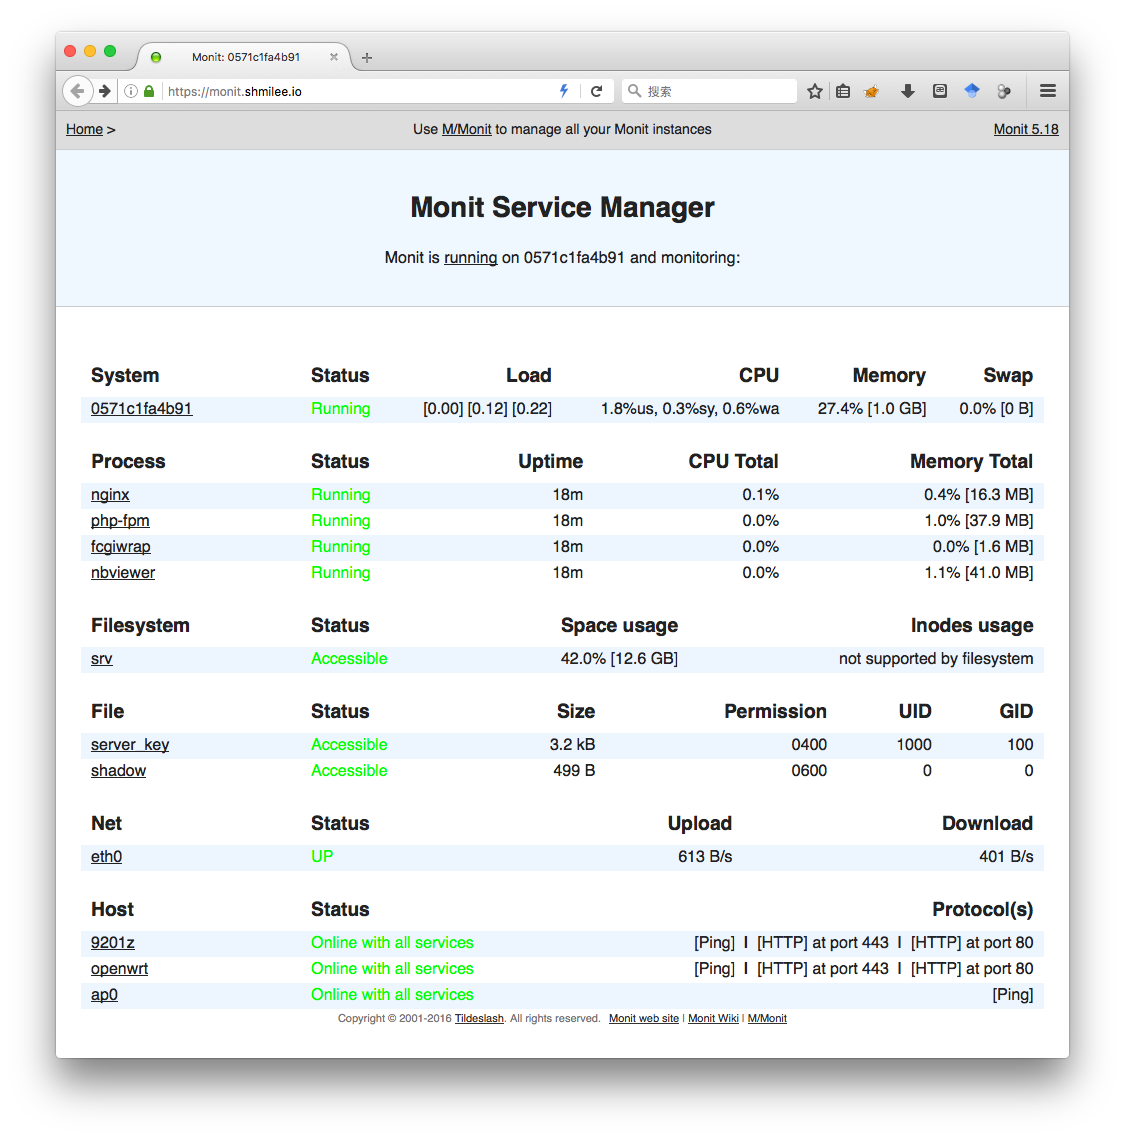
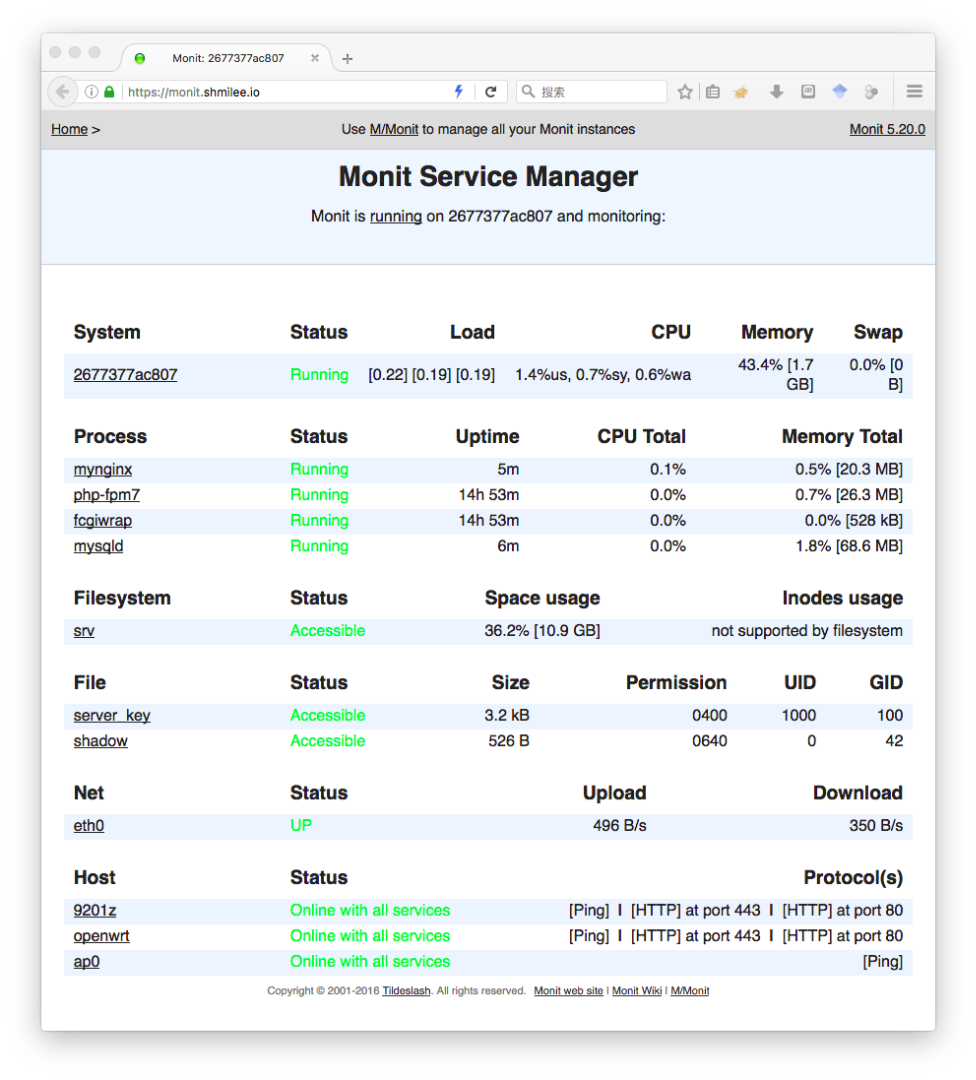
update readme for alpine lnmp

diff --git a/readme.md b/readme.md
@@ -17,120 +17,175 @@ Monit's web interface:
 
 ```shell
 $ docker exec -t lnmp_server ps aux
-USER       PID %CPU %MEM    VSZ   RSS TTY      STAT START   TIME COMMAND
-root         1  0.0  0.0   4188   640 ?        Ss   Jul02   0:01 /usr/bin/tini -
-root         6  0.1  0.1 104960  6496 ?        Sl   Jul02   0:57 /usr/bin/monit 
-root        15  0.0  0.0  47912  1332 ?        Ss   Jul02   0:00 nginx: master p
-http        16  0.0  0.2  50500  9500 ?        S    Jul02   0:30 nginx: worker p
-http        17  0.0  0.3  55960 14956 ?        S    Jul02   0:32 nginx: worker p
-root        19  0.0  0.2 240860 11324 ?        Ss   Jul02   0:01 php-fpm: master
-http        20  0.0  0.3 241052 15840 ?        S    Jul02   0:00 php-fpm: pool w
-http        21  0.0  0.3 241052 15840 ?        S    Jul02   0:00 php-fpm: pool w
-http        23  0.0  0.0  30108  2408 ?        Ss   Jul02   0:00 /bin/fcgiwrap
-nbviewer    25  0.0  1.0 168136 42396 ?        S    Jul02   0:14 python -m nbvie
-root       151  0.0  0.0  36360  3236 ?        Rs+  14:25   0:00 ps aux
+PID   USER     TIME   COMMAND
+    1 root       0:01 /sbin/tini -- monit_init.sh 5
+    7 root       0:17 /usr/bin/monit -c /srv/etc/monitrc
+   23 root       0:01 {php-fpm7} php-fpm: master process (/srv/etc/php-fpm7.con
+   24 nobody     0:00 {php-fpm7} php-fpm: pool www
+   25 nobody     0:00 {php-fpm7} php-fpm: pool www
+   27 mynginx    0:00 /usr/bin/fcgiwrap
+  331 mysql      0:01 /usr/bin/mysqld --basedir=/usr --datadir=/var/lib/mysql -
+  365 root       0:00 {mynginx} nginx: master process /usr/bin/mynginx -c /srv/
+  366 mynginx    0:01 {mynginx} nginx: worker process
+  367 mynginx    0:00 {mynginx} nginx: worker process
+  368 mynginx    0:00 {mynginx} nginx: cache manager process
+  459 root       0:00 bash
+  519 root       0:00 ps aux
 
 $ docker exec -t lnmp_server pstree -p                                          :) 0
-tini(1)─┬─fcgiwrap(23)
-        ├─monit(6)───{monit}(135)
-        ├─nginx(15)─┬─nginx(16)
-        │           └─nginx(17)
-        ├─php-fpm(19)─┬─php-fpm(20)
-        │             └─php-fpm(21)
-        └─python(25)
+tini(1)-+-fcgiwrap(27)
+        |-monit(7)
+        |-mynginx(365)-+-mynginx(366)
+        |              |-mynginx(367)
+        |              `-mynginx(368)
+        |-mysqld(331)
+        `-php-fpm7(23)-+-php-fpm7(24)
+                       `-php-fpm7(25)
 
 $ docker exec -t lnmp_server monit -c /srv/etc/monitrc summary                  :) 0
-Monit uptime: 16h 0m
- Service Name                     Status                      Type          
- d64b2b871998                     Running                     System        
- nginx                            Running                     Process       
- php-fpm                          Running                     Process       
- fcgiwrap                         Running                     Process       
- nbviewer                         Running                     Process       
- server_key                       Accessible                  File          
- shadow                           Accessible                  File          
- srv                              Accessible                  Filesystem    
- 9201z                            Online with all services    Remote Host   
- openwrt                          Online with all services    Remote Host   
- ap0                              Online with all services    Remote Host   
- eth0                             UP                          Network       
+Monit 5.20.0 uptime: 15h 20m
+┌─────────────────────────────────┬────────────────────────────┬───────────────┐
+│ Service Name                    │ Status                     │ Type          │
+├─────────────────────────────────┼────────────────────────────┼───────────────┤
+│ 2677377ac807                    │ Running                    │ System        │
+├─────────────────────────────────┼────────────────────────────┼───────────────┤
+│ mynginx                         │ Running                    │ Process       │
+├─────────────────────────────────┼────────────────────────────┼───────────────┤
+│ php-fpm7                        │ Running                    │ Process       │
+├─────────────────────────────────┼────────────────────────────┼───────────────┤
+│ fcgiwrap                        │ Running                    │ Process       │
+├─────────────────────────────────┼────────────────────────────┼───────────────┤
+│ mysqld                          │ Running                    │ Process       │
+├─────────────────────────────────┼────────────────────────────┼───────────────┤
+│ server_key                      │ Accessible                 │ File          │
+├─────────────────────────────────┼────────────────────────────┼───────────────┤
+│ shadow                          │ Accessible                 │ File          │
+├─────────────────────────────────┼────────────────────────────┼───────────────┤
+│ srv                             │ Accessible                 │ Filesystem    │
+├─────────────────────────────────┼────────────────────────────┼───────────────┤
+│ 9201z                           │ Online with all services   │ Remote Host   │
+├─────────────────────────────────┼────────────────────────────┼───────────────┤
+│ openwrt                         │ Online with all services   │ Remote Host   │
+├─────────────────────────────────┼────────────────────────────┼───────────────┤
+│ ap0                             │ Online with all services   │ Remote Host   │
+├─────────────────────────────────┼────────────────────────────┼───────────────┤
+│ eth0                            │ UP                         │ Network       │
+└─────────────────────────────────┴────────────────────────────┴───────────────┘
 ```
 
-NGINX PKGBUILD
-==============
+MyNGINX APKBUILD
+================
 
-In Arch Linux, build package:
+In Alpine Docker image `shmilee/abuild:3.5`,
+[build package](./dockerfiles/readme.md#build-packages):
 
-```shell
-cd ./mynginx/
-yaourt -S libmaxminddb sregex-git
-makepkg -s
-```
 The packages:
 
 ```
-mynginx/1.10.2-5:mynginx-1.10.2-5-i686.pkg.tar.xz
-mynginx/1.10.2-5:mynginx-1.10.2-5-x86_64.pkg.tar.xz
-mynginx/1.10.2-5:mynginx-pagespeed-1.10.2_1.11.33.2-5-i686.pkg.tar.xz
-mynginx/1.10.2-5:mynginx-pagespeed-1.10.2_1.11.33.2-5-x86_64.pkg.tar.xz
-mynginx/1.10.2-5:mynginx-passenger-1.10.2_5.0.30-5-i686.pkg.tar.xz
-mynginx/1.10.2-5:mynginx-passenger-1.10.2_5.0.30-5-x86_64.pkg.tar.xz
+mynginx-1.10.2-r0
+mynginx-doc-1.10.2-r0
+mynginx-meta-buildin-modules-1.10.2-r0
+mynginx-meta-github-modules-1.10.2-r0
+mynginx-meta-small-modules-1.10.2-r0
+mynginx-mod-accounting-1.10.2_3c13f62-r0
+mynginx-mod-array-var-1.10.2_0.05-r0
+mynginx-mod-auth-pam-1.10.2_1.5.1-r0
+mynginx-mod-auth-spnego-1.10.2_48c6e2e-r0
+mynginx-mod-cache-purge-1.10.2_2.3-r0
+mynginx-mod-concat-1.10.2_b8d3e7e-r0
+mynginx-mod-devel-kit-1.10.2_0.3.0-r0
+mynginx-mod-dynamic-upstream-1.10.2_0.1.6-r0
+mynginx-mod-echo-1.10.2_0.60-r0
+mynginx-mod-encrypted-session-1.10.2_0.06-r0
+mynginx-mod-enhanced-memcached-1.10.2_80518ef-r0
+mynginx-mod-eval-1.10.2_2016.06.10-r0
+mynginx-mod-fancyindex-1.10.2_0.4.1-r0
+mynginx-mod-form-input-1.10.2_0.12-r0
+mynginx-mod-geoip-1.10.2-r0
+mynginx-mod-geoip2-1.10.2_1.1-r0
+mynginx-mod-google-filter-1.10.2_0.2.0-r0
+mynginx-mod-headers-more-filter-1.10.2_0.31-r0
+mynginx-mod-http-upsync-1.10.2_6a840dd-r0
+mynginx-mod-iconv-1.10.2_0.14-r0
+mynginx-mod-image-filter-1.10.2-r0
+mynginx-mod-lua-1.10.2_0.10.6-r0
+mynginx-mod-lua-upstream-1.10.2_0.06-r0
+mynginx-mod-mail-1.10.2-r0
+mynginx-mod-memc-1.10.2_0.17-r0
+mynginx-mod-naxsi-1.10.2_0.55.1-r0
+mynginx-mod-nchan-1.10.2_1.0.4-r0
+mynginx-mod-passenger-1.10.2_5.1.1-r0
+mynginx-mod-perl-1.10.2-r0
+mynginx-mod-push-stream-1.10.2_0.5.2-r0
+mynginx-mod-rdns-1.10.2_a32deec-r0
+mynginx-mod-redis2-1.10.2_0.13-r0
+mynginx-mod-replace-filter-1.10.2_2c7f065-r0
+mynginx-mod-rtmp-1.10.2_c3237ae-r0
+mynginx-mod-rtmpt-proxy-1.10.2_62130c9-r0
+mynginx-mod-set-misc-1.10.2_0.31-r0
+mynginx-mod-shibboleth-1.10.2_2.0.0-r0
+mynginx-mod-small-light-1.10.2_0.9.0-r0
+mynginx-mod-sorted-querystring-1.10.2_0.3-r0
+mynginx-mod-srcache-filter-1.10.2_0.31-r0
+mynginx-mod-stream-1.10.2-r0
+mynginx-mod-stream-upsync-1.10.2_f2515a2-r0
+mynginx-mod-subs-filter-1.10.2_bc58cb1-r0
+mynginx-mod-testcookie-access-1.10.2_b20b5fd-r0
+mynginx-mod-uploadprogress-1.10.2_afb2d31-r0
+mynginx-mod-upstream-fair-1.10.2_a18b409-r0
+mynginx-mod-vhost-traffic-status-1.10.2_64e0055-r0
+mynginx-mod-xslt-filter-1.10.2-r0
+mynginx-vim-1.10.2-r0
 ```
 
 The nginx dynamic modules:
 
 ```shell
-$ ls /usr/lib/nginx/modules                                                           :) 0
-ndk_http_module.so                      ngx_http_push_stream_module.so
-ngx_dynamic_upstream_module.so          ngx_http_rdns_module.so
-ngx_http_accounting_module.so           ngx_http_redis2_module.so
-ngx_http_array_var_module.so            ngx_http_replace_filter_module.so
-ngx_http_auth_pam_module.so             ngx_http_set_misc_module.so
-ngx_http_auth_spnego_module.so          ngx_http_shibboleth_module.so
-ngx_http_cache_purge_module.so          ngx_http_small_light_module.so
-ngx_http_concat_module.so               ngx_http_sorted_querystring_module.so
-ngx_http_echo_module.so                 ngx_http_srcache_filter_module.so
-ngx_http_encrypted_session_module.so    ngx_http_ssl_ct_module.so
+$ ls /usr/lib/mynginx/modules                                                           :) 0
+ndk_http_module.so                      ngx_http_naxsi_module.so
+ngx_dynamic_upstream_module.so          ngx_http_push_stream_module.so
+ngx_http_accounting_module.so           ngx_http_rdns_module.so
+ngx_http_array_var_module.so            ngx_http_redis2_module.so
+ngx_http_auth_pam_module.so             ngx_http_replace_filter_module.so
+ngx_http_cache_purge_module.so          ngx_http_set_misc_module.so
+ngx_http_concat_module.so               ngx_http_shibboleth_module.so
+ngx_http_echo_module.so                 ngx_http_sorted_querystring_module.so
+ngx_http_encrypted_session_module.so    ngx_http_srcache_filter_module.so
 ngx_http_enhanced_memcached_module.so   ngx_http_subs_filter_module.so
 ngx_http_eval_module.so                 ngx_http_testcookie_access_module.so
 ngx_http_fancyindex_module.so           ngx_http_uploadprogress_module.so
 ngx_http_form_input_module.so           ngx_http_upstream_fair_module.so
 ngx_http_geoip2_module.so               ngx_http_upsync_module.so
 ngx_http_geoip_module.so                ngx_http_vhost_traffic_status_module.so
-ngx_http_google_filter_module.so        ngx_http_xslt_filter_module.so
-ngx_http_headers_more_filter_module.so  ngx_mail_ssl_ct_module.so
-ngx_http_iconv_module.so                ngx_nchan_module.so
-ngx_http_image_filter_module.so         ngx_pagespeed.so
-ngx_http_lua_module.so                  ngx_rtmp_module.so
-ngx_http_lua_upstream_module.so         ngx_rtmpt_proxy_module.so
-ngx_http_memc_module.so                 ngx_ssl_ct_module.so
-ngx_http_naxsi_module.so                ngx_stream_ssl_ct_module.so
-ngx_http_passenger_module.so            ngx_stream_upsync_module.so
+ngx_http_google_filter_module.so        ngx_mail_module.so
+ngx_http_headers_more_filter_module.so  ngx_nchan_module.so
+ngx_http_iconv_module.so                ngx_rtmp_module.so
+ngx_http_lua_module.so                  ngx_rtmpt_proxy_module.so
+ngx_http_lua_upstream_module.so         ngx_stream_module.so
+ngx_http_memc_module.so                 ngx_stream_upsync_module.so
 
-$ ls /etc/nginx/modules/available                                                     :) 0
-0-accounting.conf           0-naxsi.conf               0-stream_upsync.conf
-0-auth_pam.conf             0-nchan.conf               0-subs_filter.conf
-0-auth_spnego.conf          0-ndk.conf                 0-testcookie_access.conf
-0-cache_purge.conf          0-pagespeed.conf           0-uploadprogress.conf
-0-concat.conf               0-passenger.conf           0-upstream_fair.conf
-0-dynamic_upstream.conf     0-push_stream.conf         0-vhost_traffic_status.conf
-0-echo.conf                 0-rdns.conf                0-xslt_filter.conf
-0-enhanced_memcached.conf   0-redis2.conf              1-ndk-array_var.conf
-0-eval.conf                 0-replace_filter.conf      1-ndk-encrypted_session.conf
-0-fancyindex.conf           0-rtmp.conf                1-ndk-form_input.conf
-0-geoip2.conf               0-rtmpt_proxy.conf         1-ndk-iconv.conf
-0-geoip.conf                0-shibboleth.conf          1-ndk-lua.conf
-0-headers_more_filter.conf  0-small_light.conf         1-ndk-lua_upstream.conf
-0-http_upsync.conf          0-sorted_querystring.conf  1-ndk-set_misc.conf
-0-image_filter.conf         0-srcache_filter.conf      1-subs_filter-google_filter.conf
-0-memc.conf                 0-ssl_ct.conf
+$ ls /etc/mynginx/modules/available                                                     :) 0
+0-accounting.conf           0-mail.conf                 0-stream.conf
+0-auth-pam.conf             0-memc.conf                 0-subs-filter.conf
+0-cache-purge.conf          0-naxsi.conf                0-testcookie-access.conf
+0-concat.conf               0-nchan.conf                0-uploadprogress.conf
+0-devel-kit.conf            0-push-stream.conf          0-upstream-fair.conf
+0-dynamic-upstream.conf     0-rdns.conf                 0-vhost-traffic-status.conf
+0-echo.conf                 0-redis2.conf               1-devel-kit_array-var.conf
+0-enhanced-memcached.conf   0-replace-filter.conf       1-devel-kit_encrypted-session.conf
+0-eval.conf                 0-rtmp.conf                 1-devel-kit_form-input.conf
+0-fancyindex.conf           0-rtmpt-proxy.conf          1-devel-kit_iconv.conf
+0-geoip.conf                0-shibboleth.conf           1-devel-kit_lua-upstream.conf
+0-geoip2.conf               0-sorted-querystring.conf   1-devel-kit_lua.conf
+0-headers-more-filter.conf  0-srcache-filter.conf       1-devel-kit_set-misc.conf
+0-http-upsync.conf          0-stream-upsync.conf        1-subs-filter_google-filter.conf
 ```
 
 Notes:
 
-1. `1-ndk-lua.conf` means module `lua` depends on module `ndk`.
+1. `1-devel-kit_lua.conf` means module `lua` depends on module `devel-kit`.
 
-2. `passenger` demos config: `./mynginx/passenger-demos`
+2. `passenger` demos config: `./etc/passenger-demos`
 
 3. Now `ngx_cache_purge` honors `server_tokens off;`.
 
@@ -144,15 +199,16 @@ Build lnmp image, matplothub image.
 
 ```shell
 $ docker images                                                                       :) 0
-REPOSITORY           TAG                 IMAGE ID            CREATED             SIZE
-shmilee/matplothub   161229              f756e139bc6d        2 hours ago         683.8 MB
-shmilee/matplothub   using               f756e139bc6d        2 hours ago         683.8 MB
-shmilee/lnmp         161229              4ac8c4ac7331        2 hours ago         671.2 MB
-shmilee/lnmp         using               4ac8c4ac7331        2 hours ago         671.2 MB
-shmilee/arch         1612                1b5aceb3ef3f        3 hours ago         252.2 MB
+REPOSITORY              TAG                 IMAGE ID            CREATED             SIZE
+shmilee/lnmp            170109              394eabbb7b45        17 hours ago        314.3 MB
+shmilee/lnmp            using               394eabbb7b45        17 hours ago        314.3 MB
+shmilee/abuild          3.5                 4f2bda183df9        4 days ago          189.9 MB
+shmilee/matplothub      161229              f756e139bc6d        12 days ago         683.8 MB
+shmilee/matplothub      using               f756e139bc6d        12 days ago         683.8 MB
+alpine                  3.5                 88e169ea8f46        13 days ago         3.98 MB
 ```
 
-TODO: Arch Linux -> Alpine Linux
+TODO: matplothub: Arch Linux -> Alpine Linux
 
 owncloud
 ========
@@ -179,7 +235,7 @@ configurations
     - cgitrc     
     - cgitrepos
     - php.ini
-    - php-fpm.conf
+    - php-fpm7.conf
 * log/
 * root_files
 * ...
@@ -193,9 +249,3 @@ examples:
 * service/lnmp.service
 * service/lnmpssh.service
 
-Deploy
-======
-
-```
-sh ./deploy.sh
-```
